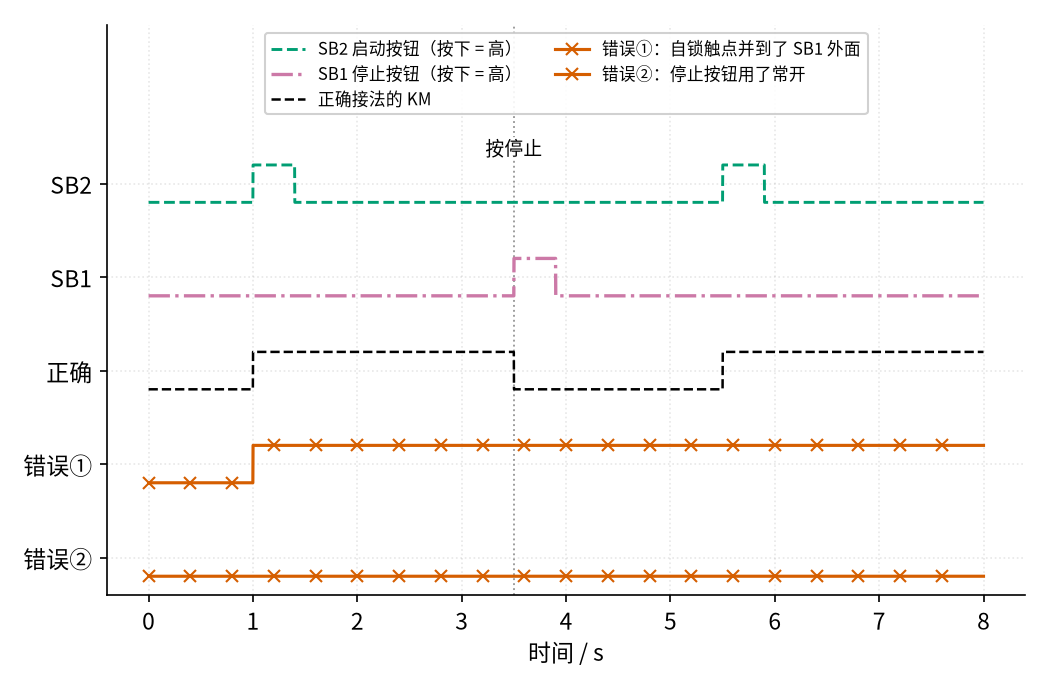
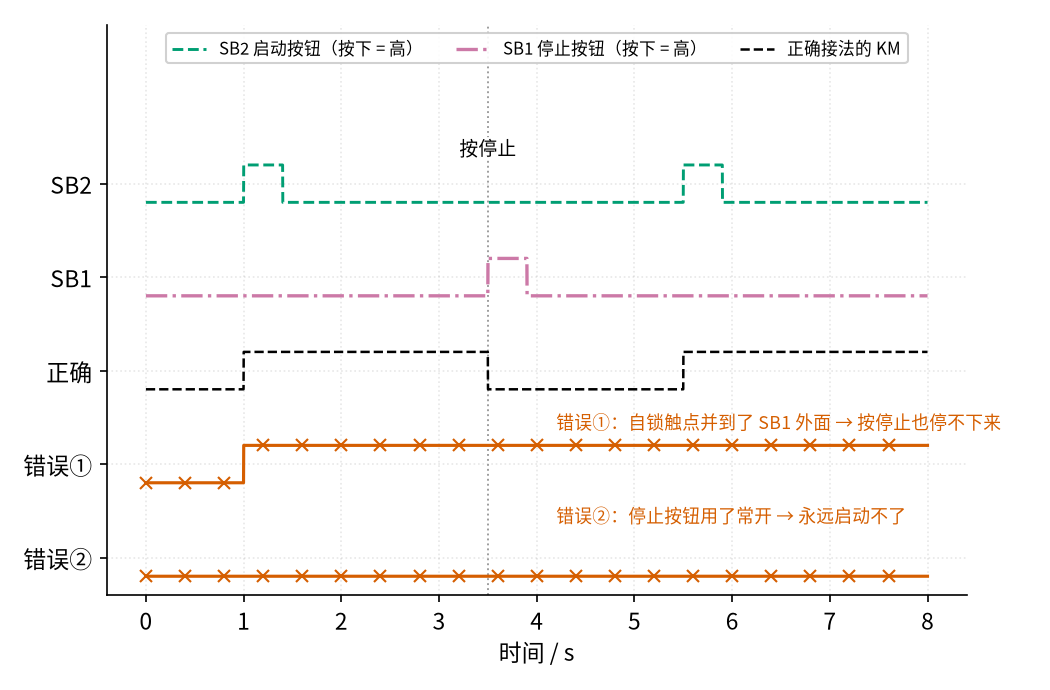
fix: 自锁 复核修改

diff --git a/code/figs/17_figs.py b/code/figs/17_figs.py
@@ -81,6 +81,10 @@ def main_circuit():
         for y, lab in [(-0.8, "熔断器\nFU1"), (-2.4, "KM\n主触点"), (-4.0, "热继电器\n发热元件 FR")]:
             d += elm.Label().at((-1.3, y)).label(lab, fontsize=10)
     print("[图 17-p1-3] 主电路：三相 L1/L2/L3（线电压 380 V）")
+    U_phase = 220.0                                   # 相电压：相线对零线
+    U_line = U_phase * np.sqrt(3)                     # 线电压：两根相线之间 = 相电压 × √3（结论，推导见 19）
+    print(f"[三相] 相电压 {U_phase:.0f} V × √3 = {U_line:.0f} V ≈ 380 V（线电压）；比值 {380 / 220:.2f}")
+    assert abs(U_line - 380) < 2
     save_schem(d, P, "17_p1_3_main.png")
 
 
@@ -151,14 +155,16 @@ def wrong_wiring():
     ax.plot(t, sb2 * 0.8 + 6, **fs.LS["fb"], label="SB2 启动按钮（按下 = 高）")
     ax.plot(t, sb1 * 0.8 + 4, **fs.LS["third"], label="SB1 停止按钮（按下 = 高）")
     ax.plot(t, ok * 0.8 + 2, **fs.LS["good"], label="正确接法的 KM")
-    ax.plot(t, wp * 0.8 + 0, **{**fs.LS["bad"], "markevery": 400}, label="错误①：自锁触点并到了 SB1 外面")
-    ax.plot(t, sn * 0.8 - 2, **{**fs.LS["bad"], "markevery": 400}, label="错误②：停止按钮用了常开")
+    ax.plot(t, wp * 0.8 + 0, **{**fs.LS["bad"], "markevery": 400})   # 两条错误线同色同标记，直接在行旁写字区分
+    ax.plot(t, sn * 0.8 - 2, **{**fs.LS["bad"], "markevery": 400})
+    ax.text(4.2, 1.15, "错误①：自锁触点并到了 SB1 外面 → 按停止也停不下来", fontsize=8.5, color=fs.LS["bad"]["color"])
+    ax.text(4.2, -0.85, "错误②：停止按钮用了常开 → 永远启动不了", fontsize=8.5, color=fs.LS["bad"]["color"])
     fs.ref_v(ax, 3.5, "按停止", y=0.80)
     assert ok[np.searchsorted(t, 4.5)] == 0 and wp[np.searchsorted(t, 4.5)] == 1 and not sn.any()
     print("[图 17-p2-3] 1 s、5.5 s 按启动，3.5 s 按停止；错误①停不下来，错误②永远启动不了")
     ax.set_yticks([-1.6, 0.4, 2.4, 4.4, 6.4]); ax.set_yticklabels(["错误②", "错误①", "正确", "SB1", "SB2"])
     ax.set_ylim(-2.4, 9.8); fs.axlabels(ax, "时间", "s")
-    ax.legend(loc="upper center", fontsize=8, ncol=2)
+    ax.legend(loc="upper center", fontsize=8, ncol=3)
     fs.save(fig, P, "17_p2_3_wrong.png")
 
 

diff --git a/code/17_sim.py b/code/17_sim.py
@@ -1,7 +1,7 @@
 # 17 自锁电路的最小仿真：把时间切成 1 ms 一小段，每一段都按"控制回路通不通 → 线圈电压够不够 → 衔铁吸没吸"推一步。
 # 控制回路：电源 → SB1 停止按钮（常闭）→ [SB2 启动按钮（常开） 并联 KM 自锁触点（常开）] → KM 线圈 → 电源另一端
-import sys, os                                     # 下一行让 Python 找到 code/figs 里的共享画图样式
-sys.path.insert(0, os.path.join(os.path.dirname(os.path.abspath(__file__)), "figs"))
+import sys, pathlib
+sys.path.insert(0, str(pathlib.Path("code/figs").resolve()))  # 在仓库根目录运行
 import numpy as np                                 # 数组运算
 import matplotlib.pyplot as plt                    # 画图
 import figstyle as fs                              # 全书统一的颜色、轴标签、保存函数

diff --git a/17-self-locking/page3.md b/17-self-locking/page3.md
@@ -18,7 +18,7 @@
 | 释放电压 | 0.3～0.6 Uc | 电压跌到这个范围以下，KM 释放，实现欠压 / 失压保护 |
 | 吸合时间 | 12～22 ms（D25 为 15～24 ms） | 按钮只要按住比这长，自锁触点就来得及闭合 |
 | 释放时间 | 4～19 ms | 按停止后主触点多久断开 |
-| 线圈功率（交流） | 吸合瞬间约 70 VA，保持约 7 VA | 吸合瞬间电流大，长导线上的压降主要发生在这时 |
+| 线圈功率（交流） | 吸合瞬间约 70 VA，保持约 7 VA（VA 读作伏安，就是电压 × 电流，本页可以先把它近似看成瓦特） | 吸合瞬间电流大，长导线上的压降主要发生在这时 |
 | 辅助触点 | 至少一个常开（作自锁） | 自锁、指示灯、互锁都要占用辅助触点 |
 
 国际标准 IEC 60947-4-1 对接触器的要求也是 0.85～1.1 Uc 范围内可靠吸合；ABB 的手册给出的释放电压范围是 0.20～0.75 Uc。不同厂家、不同型号差别很大，实际使用请以手头型号的手册为准。原理篇的仿真用了 85% 吸合、45% 释放，就是从这些范围里挑的典型值。
@@ -41,25 +41,25 @@
 
 *图 17-p3-2　控制线长度对线圈吸合电压的影响（1 mm² 铜线）*
 
-图 17-p3-2 里朱红色带×的线是 24 V 控制：把吸合瞬间的线圈看成约 8.2 Ω 的负载，距离约 42 m 时线圈电压就降到 85%，再远就可能吸不上或抖动。橙色线是 220 V 控制：线圈约 691.4 Ω，同样的电流功率下电流只有 24 V 时的约九分之一，400 m 处仍有 98.0%。这个估算把线圈阻抗和导线电阻直接相加，忽略了相位，所以算出来的压降偏大，是偏保守的。这就是很多现场把控制电压选成 220 V 的原因之一；如果必须用低压控制，就要加粗导线或者在近处加一级中间继电器。
+图 17-p3-2 里朱红色带×的线是 24 V 控制：把吸合瞬间的线圈看成约 8.2 Ω 的负载，距离约 42 m 时线圈电压就降到 85%，再远就可能吸不上或抖动。橙色线是 220 V 控制：线圈约 691.4 Ω，同样的电流功率下电流只有 24 V 时的约九分之一，400 m 处仍有 98.0%。这个估算把线圈和导线的"阻碍"简单相加。交流线圈其实不能这样直接相加，这样算出来的压降偏大，结果是偏保守的。这就是很多现场把控制电压选成 220 V 的原因之一；如果必须用低压控制，就要加粗导线或者在近处加一级中间继电器。
 
 ## 二、故障排查
 
 | 现象 | 原因 | 怎么查 | 怎么改 |
 |---|---|---|---|
-| 按住启动才转，一松手就停 | 自锁触点没接、接成了常闭，或接到了别的接触器上 | 断电后用万用表蜂鸣档量 SB2 两端：按下 KM 衔铁（手动压下）时应导通 | 用 KM 自己的常开辅助触点，只并在 SB2 两端 |
-| 按停止停不下来 | 自锁触点并到了 SB1 外面（并联点位置错），或 SB1 触点熔焊 | 对照图纸看自锁触点两端分别接在哪里；断电量 SB1 是否能断开 | 把自锁触点的一端改接到 SB1 之后；更换损坏的按钮 |
-| 按启动完全没反应 | 停止按钮误用了常开触点；FR 已脱扣没复位；线圈电压与电源不符；熔断器断 | 断电量 SB1 平时是否导通；看 FR 复位按钮；核对线圈铭牌电压 | SB1 改用常闭触点；查明过载原因后复位 FR；换对电压的线圈 |
-| 一送电电机就自己转 | 用了带自锁的"旋钮 / 拨动开关"代替按钮（二线控制），没有失压保护 | 看启动元件是不是会弹回的按钮 | 改用会自动复位的按钮加自锁触点（三线控制） |
-| 接触器嗡嗡响、抖动 | 线圈电压偏低，处在吸合门限附近；交流接触器短路环断裂 | 由持证电工在吸合时测量线圈两端电压，与 85% Uc 比较 | 查电源和接线压降；更换接触器 |
-| 近处正常，远处的按钮盒按了吸不上 | 低压控制线太长，吸合瞬间压降过大 | 按本页的估算，用距离、线径、线圈功率算压降 | 加粗导线、提高控制电压，或就近加中间继电器 |
-| 运行一段时间后自己停，过一会又能启动 | 电机过载，FR 动作 | 看 FR 是否脱扣；查负载、电流 | 排除机械卡阻；按电机额定电流整定 FR |
+| 按住启动才转，一松手就停 | 自锁触点没接、接成了常闭，或接到了别的接触器上 | 断电并验电后，用万用表蜂鸣档量 SB2 两端：手动压下 KM 衔铁时应导通 | 断电后由电工改接：用 KM 自己的常开辅助触点，只并在 SB2 两端 |
+| 按停止停不下来 | 自锁触点并到了 SB1 外面（并联点位置错），或 SB1 触点熔焊 | 对照图纸看自锁触点两端分别接在哪里；断电后量 SB1 是否能断开 | 断电后由电工把自锁触点的一端改接到 SB1 之后，或更换损坏的按钮 |
+| 按启动完全没反应 | 停止按钮误用了常开触点；FR 已脱扣没复位；线圈电压与电源不符；熔断器断 | 断电后量 SB1 平时是否导通；看 FR 是否脱扣；核对线圈铭牌电压 | 断电后由电工处理：SB1 改用常闭触点；查明过载原因后复位 FR；换对电压的线圈 |
+| 一送电电机就自己转 | 用了带自锁的"旋钮 / 拨动开关"代替按钮（二线控制），没有失压保护 | 看启动元件是不是会弹回的按钮 | 断电后由电工改用会自动复位的按钮加自锁触点（三线控制） |
+| 接触器嗡嗡响、抖动 | 线圈电压偏低，处在吸合门限附近；交流接触器短路环断裂（短路环是铁芯端面上嵌的一个小铜环，防止交流电过零时衔铁松开振动，断了就会嗡嗡响） | 由持证电工在吸合时测量线圈两端电压，与 85% Uc 比较 | 请电工查电源和接线压降，断电后更换接触器 |
+| 近处正常，远处的按钮盒按了吸不上 | 低压控制线太长，吸合瞬间压降过大 | 按本页的估算，用距离、线径、线圈功率算压降 | 断电后由电工加粗导线、提高控制电压，或就近加中间继电器 |
+| 运行一段时间后自己停，过一会又能启动 | 电机过载，FR 动作 | 看 FR 是否脱扣；请电工测电机电流，断电后查负载是否卡住 | 断电后排除机械卡阻；由电工按电机额定电流整定 FR |
 
 最后一行里提醒一句：FR 是**过载**保护，动作要几秒到几分钟；它不能代替熔断器或断路器做短路保护。
 
 ## 三、练习
 
-**练习 1**：电机停着。小明先按住停止按钮不放，再按下启动按钮，然后先松开启动按钮，最后松开停止按钮。电机会转吗？用原理篇的逻辑式说明。
+**练习 1（易）**：电机停着。小明先按住停止按钮不放，再按下启动按钮，然后先松开启动按钮，最后松开停止按钮。电机会转吗？用原理篇的逻辑式说明。
 
 <details><summary>答案</summary>
 
@@ -67,7 +67,7 @@
 
 </details>
 
-**练习 2**：某控制回路用 220 V 线圈的接触器，吸合门限 85%、释放门限 45%。电网电压跌到 180 V 时：(a) 原来停着的电机按启动能否启动？(b) 原来在转的电机会不会停？
+**练习 2（中）**：某控制回路用 220 V 线圈的接触器，吸合门限 85%、释放门限 45%。电网电压跌到 180 V 时：(a) 原来停着的电机按启动能否启动？(b) 原来在转的电机会不会停？
 
 <details><summary>答案</summary>
 
@@ -75,7 +75,7 @@
 
 </details>
 
-**练习 3**：图 17-p3-2 用的是 1 mm² 导线。如果 24 V 控制改用 1.5 mm² 导线，吸合电压降到 85% 的距离变成多少？（提示：导线电阻和截面积成反比。）
+**练习 3（中）**：图 17-p3-2 用的是 1 mm² 导线。如果 24 V 控制改用 1.5 mm² 导线，吸合电压降到 85% 的距离变成多少？（提示：导线电阻和截面积成反比。）
 
 <details><summary>答案</summary>
 
@@ -83,7 +83,7 @@
 
 </details>
 
-**练习 4（变体迁移）**：一台水泵要求在"甲地"（控制柜旁）和"乙地"（泵房）都能启动、都能停止。只给你两个常闭停止按钮 SB1、SB3 和两个常开启动按钮 SB2、SB4，画出控制回路。提示：想一想"并且"和"或者"分别对应停止和启动。
+**练习 4（较难 · 变体迁移）**：一台水泵要求在"甲地"（控制柜旁）和"乙地"（泵房）都能启动、都能停止。只给你两个常闭停止按钮 SB1、SB3 和两个常开启动按钮 SB2、SB4，画出控制回路。提示：想一想"并且"和"或者"分别对应停止和启动。
 
 <details><summary>答案</summary>
 

diff --git a/17-self-locking/page1.md b/17-self-locking/page1.md
@@ -9,7 +9,11 @@
 
 ## 一、痛点：一松手，电机就停了
 
-工厂里的传送带、水泵、风机，都由三相电动机带动。电动机电流大，不能让人手直接去通断，而是用 P1 里讲过的**接触器**：按钮只管给接触器线圈通电，线圈把主触点吸合，主触点再去接通电动机。
+工厂里的传送带、水泵、风机，都由三相电动机带动。电动机电流大，不能让人手直接去通断，而是用 [P1 元件速成 · 直觉篇](../P1-components-basics/page1.md) 里讲过的**接触器**：按钮只管给接触器线圈通电，线圈把主触点吸合，主触点再去接通电动机。
+
+> **小知识：什么是三相电、线电压**
+>
+> 家里的插座只有两根线：一根相线（俗称火线，L）和一根零线（N），两者之间是 220 V。工厂里用的**三相电**有三根相线 L1、L2、L3，外加一根零线 N。任意一根相线和零线之间是 220 V，叫**相电压**；任意两根相线之间是 380 V，叫**线电压**。三相电动机同时接三根相线，所以它的主电路是 380 V。380 V 约等于 220 V × √3（√3 ≈ 1.73），这个比例这里直接用结论，[19 星三角降压启动 · 原理与实现篇](../19-star-delta-start/page2.md) 会说明它的来历。我国的标称值见国家标准 GB/T 156-2017。
 
 最直接的接法是把一个启动按钮和接触器线圈串起来，看 图 17-p1-1。
 
@@ -37,7 +41,7 @@
 
 *图 17-p1-2　自锁控制回路：KM 自锁触点与启动按钮 SB2 并联*
 
-请在 图 17-p1-2 里找三样东西。第一，**停止按钮 SB1** 是常闭的，串在最前面，平时接通。第二，**启动按钮 SB2** 是常开的，它下面并着一个 **KM 自锁触点**，两条路只要有一条通，电流就能过去。第三，**FR** 是热继电器的常闭触点，电机过载发热时它会断开，作用和"自动按停止"一样。
+请在 图 17-p1-2 里找三样东西。第一，**停止按钮 SB1** 是常闭的，串在最前面，平时接通。第二，**启动按钮 SB2** 是常开的，它下面并着一个 **KM 自锁触点**，两条路只要有一条通，电流就能过去。第三，**FR** 是热继电器的常闭触点。热继电器里有一片受热会弯曲的双金属片，电机电流长时间偏大时它发热弯曲，把这个常闭触点顶开，作用和"自动按停止"一样。
 
 本书沿用电路图库里的编号：SB1 = 停止，SB2 = 启动。注意有些中文教材和电工资料的编号正好相反（SB1 启动、SB2 停止），读别的图时要先看清楚哪个是常开、哪个是常闭，别只看编号。
 
@@ -47,7 +51,7 @@
 
 *图 17-p1-3　主电路：三相电经熔断器、KM 主触点、热继电器接到电动机*
 
-图 17-p1-3 是真正通大电流的部分，三根线之间的线电压是 380 V。三个 KM 主触点和 图 17-p1-2 里的 KM 线圈、KM 自锁触点属于**同一个接触器**：线圈一吸合，三个主触点和自锁触点同时闭合。灰色虚线只表示"被同一个衔铁带动"，不是导线。FR 在这里串的是发热元件，在控制回路里用的是它的常闭触点，同样是一个元件分在两个回路里画。
+图 17-p1-3 是真正通大电流的部分，三根相线两两之间的线电压是 380 V。最上面的熔断器 FU1 就是保险丝，一旦短路就熔断，保护线路；FR 管的是"长时间稍微过载"，两者分工不同，不能互相代替。三个 KM 主触点和 图 17-p1-2 里的 KM 线圈、KM 自锁触点属于**同一个接触器**：线圈一吸合，三个主触点和自锁触点同时闭合。灰色虚线只表示"被同一个衔铁带动"，不是导线。FR 在这里串的是发热元件，在控制回路里用的是它的常闭触点，同样是一个元件分在两个回路里画。
 
 ## 四、点动和自锁对比
 
@@ -74,3 +78,4 @@
 - 自锁（自保）触头、欠压与失压保护：<https://www.dgjs123.com/jcq/12029.htm>
 - 控制回路取自 L1、L2，热继电器发热元件在主电路、常闭触点在控制回路：<https://www.jcpeixun.com/knowledge/detail/23610.html>
 - 接触器闭合时间 12～22 ms（施耐德 TeSys D 手册）：<https://nanologicautomation.com/pdf/switch-gears/contractors/Schneider-Contactors-TesysD-Nano-Logic-Automation.pdf>
+- 220/380 V（相电压/线电压）标称值，GB/T 156-2017《标准电压》：<https://www.chinesestandard.net/PDF.aspx/GBT156-2017>；线电压、相电压的定义：<https://www.coselasia.cn/wp/wp-content/uploads/2018/04/3%E7%9B%B8%E7%94%B5%E6%8E%A5%E7%BA%BF%E6%96%B9%E5%BC%8F%E7%AE%80%E4%BB%8B.pdf>
